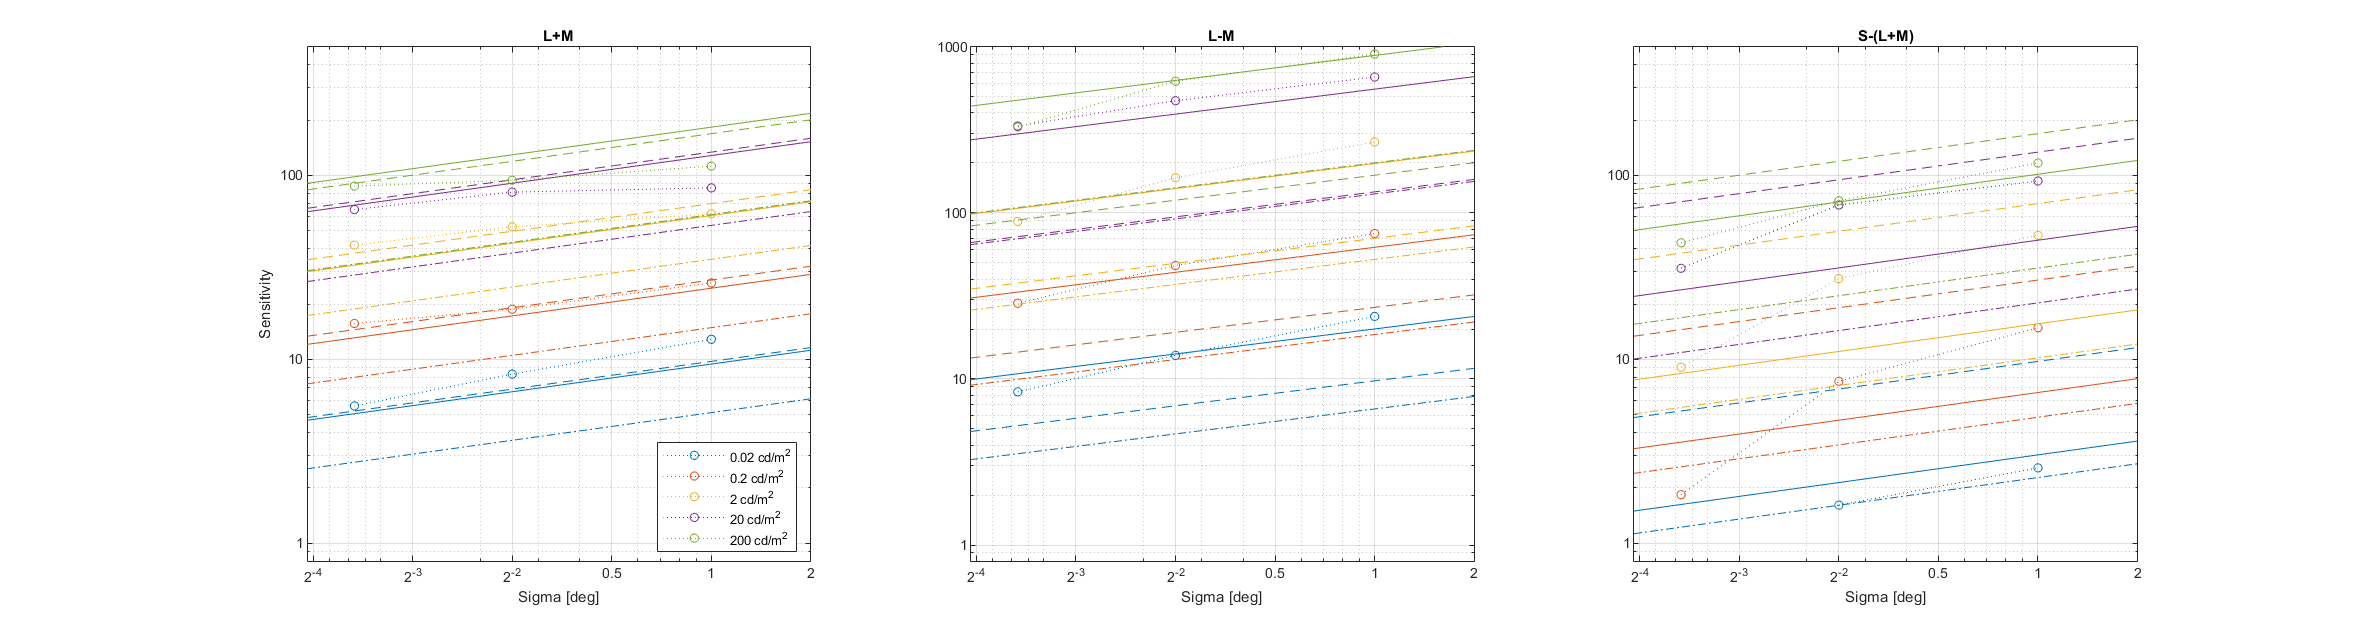
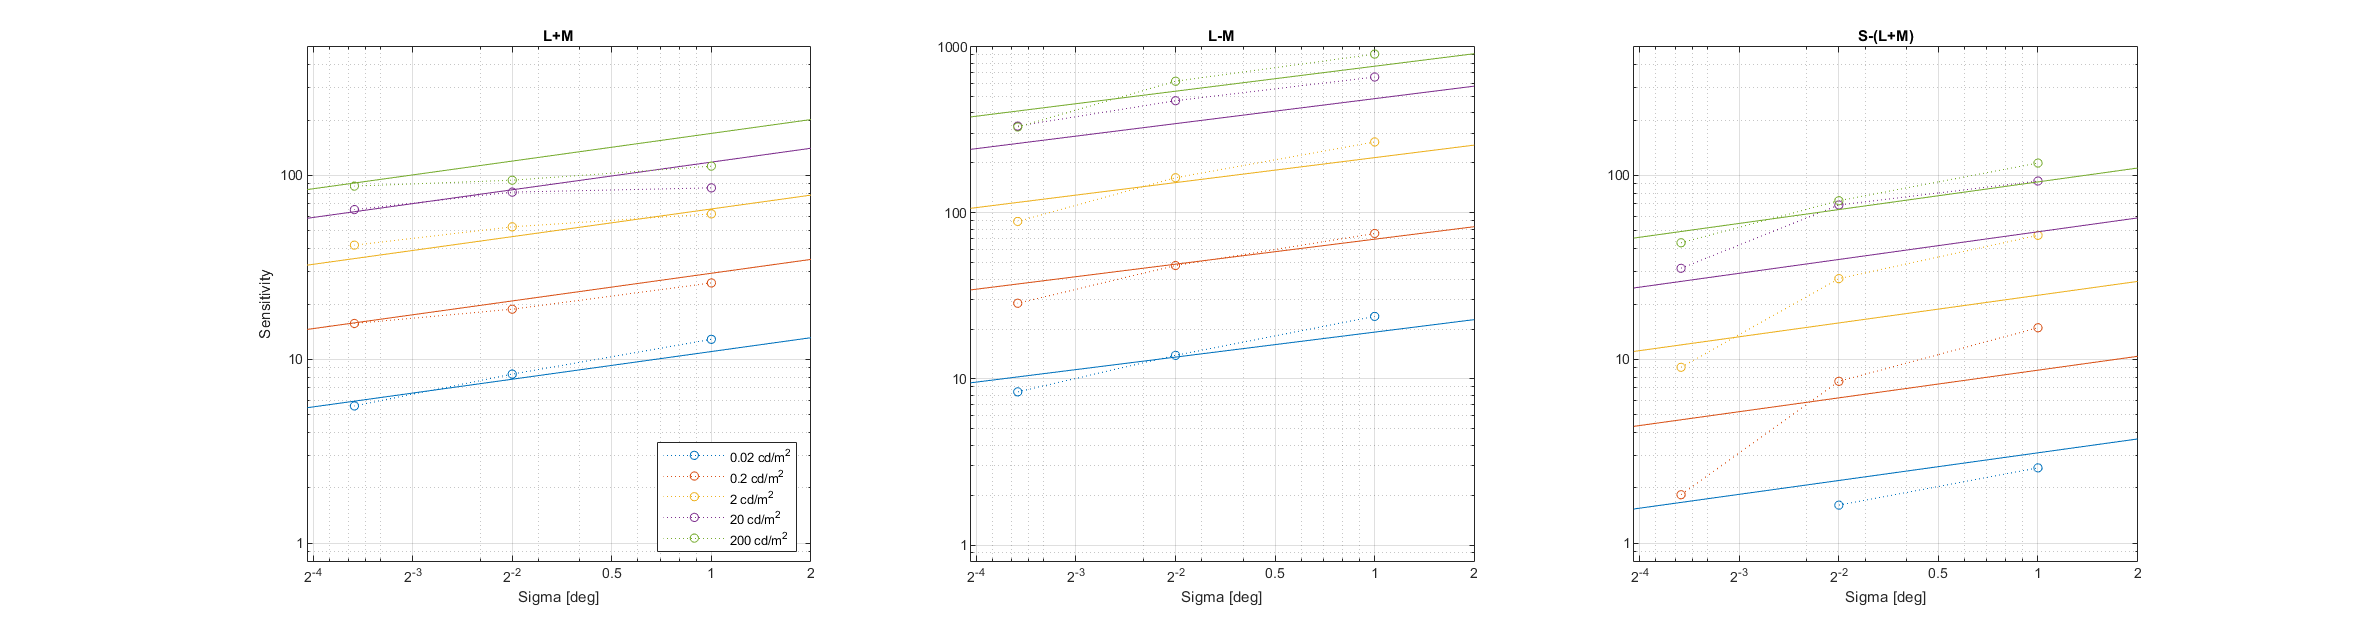
castleCSF share results

diff --git a/share/csf-castle/index.html b/share/csf-castle/index.html
@@ -15,68 +15,56 @@ function detectLeftButton(evt) {
 <h1>Fitting of chromatic Gabor and Disc datasets</h1>
 <h2>Fitting error</h2>
 <TABLE>
-<tr><td rowspan="2">Dataset</td><td colspan="3">Fitting error</td><td colspan="3">Sensitivity adjustment</td></tr><tr><td><a href="#castle-csf-temp">castleCSF-temp</a></td><td><a href="#stela-csf">stelaCSF</a></td><td><a href="#cone-contrast-mat">Cone contrast</a></td><td><a href="#castle-csf-temp">castleCSF-temp</a></td><td><a href="#stela-csf">stelaCSF</a></td><td><a href="#cone-contrast-mat">Cone contrast</a></td></tr><tr><td>Average training</td><td>5.65 [dB]</td><td>7.05 [dB]</td><td>5.87 [dB]</td><td>N/A</td><td>N/A</td><td>N/A</td></tr><tr><td><a href="#modelfest">modelfest</a></td><td>6.02 [dB]</td><td>7.29 [dB]</td><td>5.29 [dB]</td><td>1.000</td><td>1.000</td><td>1.000</td></tr><tr><td><a href="#colorfest">colorfest</a></td><td>3.09 [dB]</td><td>8.30 [dB]</td><td>3.05 [dB]</td><td>0.601</td><td>1.026</td><td>1.542</td></tr><tr><td><a href="#hdrvdp_csf">hdrvdp_csf</a></td><td>5.43 [dB]</td><td>6.04 [dB]</td><td>2.20 [dB]</td><td>0.906</td><td>1.455</td><td>1.779</td></tr><tr><td><a href="#hdr_csf">hdr_csf</a></td><td>3.87 [dB]</td><td>8.10 [dB]</td><td>3.38 [dB]</td><td>0.618</td><td>1.290</td><td>1.681</td></tr><tr><td><a href="#hdr_csf_disc">hdr_csf_disc</a></td><td>4.33 [dB]</td><td>7.95 [dB]</td><td>24.74 [dB]</td><td>0.694</td><td>1.590</td><td>0.883</td></tr><tr><td><a href="#vanderHorst1969_a">vanderHorst1969_a</a></td><td>5.08 [dB]</td><td>3.97 [dB]</td><td>18.61 [dB]</td><td>0.118</td><td>1.000</td><td>0.545</td></tr><tr><td><a href="#vanderHorst1969_b">vanderHorst1969_b</a></td><td>4.87 [dB]</td><td>7.65 [dB]</td><td>4.53 [dB]</td><td>0.207</td><td>0.497</td><td>0.916</td></tr><tr><td><a href="#swanson1986">swanson1986</a></td><td>8.87 [dB]</td><td>6.22 [dB]</td><td>9.57 [dB]</td><td>0.018</td><td>0.330</td><td>0.170</td></tr><tr><td><a href="#kong2018">kong2018</a></td><td>5.16 [dB]</td><td>6.31 [dB]</td><td>7.77 [dB]</td><td>0.482</td><td>1.550</td><td>0.650</td></tr><tr><td><a href="#five_centres">five_centres</a></td><td>6.55 [dB]</td><td>7.10 [dB]</td><td>3.08 [dB]</td><td>0.722</td><td>0.596</td><td>2.082</td></tr></TABLE>
+<tr><td rowspan="2">Dataset</td><td colspan="1">Fitting error</td><td colspan="1">Sensitivity adjustment</td></tr><tr><td><a href="#castle-csf">castleCSF</a></td><td><a href="#castle-csf">castleCSF</a></td></tr><tr><td>Average training</td><td>NaN [dB]</td><td>N/A</td></tr><tr><td><a href="#modelfest">modelfest</a></td><td>2.58 [dB]</td><td>1.000</td></tr><tr><td><a href="#colorfest">colorfest</a></td><td>3.05 [dB]</td><td>1.032</td></tr><tr><td><a href="#hdrvdp_csf">hdrvdp_csf</a></td><td>3.24 [dB]</td><td>1.367</td></tr><tr><td><a href="#hdr_csf">hdr_csf</a></td><td>3.93 [dB]</td><td>1.000</td></tr><tr><td><a href="#hdr_csf_disc">hdr_csf_disc</a></td><td>2.73 [dB]</td><td>1.325</td></tr><tr><td><a href="#anderson1991">anderson1991</a></td><td>NaN [dB]</td><td>1.000</td></tr><tr><td><a href="#virsu1979">virsu1979</a></td><td>4.87 [dB]</td><td>1.598</td></tr><tr><td><a href="#virsu1982">virsu1982</a></td><td>6.27 [dB]</td><td>0.588</td></tr><tr><td><a href="#robson1966">robson1966</a></td><td>8.56 [dB]</td><td>0.687</td></tr><tr><td><a href="#rovamo1993">rovamo1993</a></td><td>3.53 [dB]</td><td>1.868</td></tr><tr><td><a href="#vanderHorst1969_a">vanderHorst1969_a</a></td><td>5.78 [dB]</td><td>0.626</td></tr><tr><td><a href="#vanderHorst1969_b">vanderHorst1969_b</a></td><td>4.43 [dB]</td><td>0.458</td></tr></TABLE>
 <h2>Model parameters</h2>
 <div class="params_frame">
-<div align="center">castleCSF-temp</div>
+<div align="center">castleCSF</div>
 <div style="white-space: pre-line;">
-</div>
-</div>
-<div class="params_frame">
-<div align="center">stelaCSF</div>
-<div style="white-space: pre-line;">
-	p.ach_sust.S_max = [ 2200.11 9.53934 0.405355 7.54866e-07 1.85526e+28 ];
-	p.ach_sust.f_max = [ 0.0181456 4.67284e+39 0.0412733 ];
-	p.ach_sust.bw = 2.80135;
-	p.ach_sust.a = 4.88677e-48;
-	p.ach_trans.S_max = [ 0.303473 4.68988e+06 ];
-	p.ach_trans.f_max = 1.43956e-15;
-	p.ach_trans.bw = 5.22064;
-	p.ach_trans.a = 0.000273289;
-	p.sigma_trans = 0.149301;
-	p.sigma_sust = 7.18137;
-	p.ecc_drop = 0.0296662;
-	p.ecc_drop_nasal = 0.0113638;
-	p.ecc_drop_f = 0.0190062;
-	p.ecc_drop_f_nasal = 0.0193858;
-</div>
-</div>
-<div class="params_frame">
-<div align="center">Cone contrast</div>
-<div style="white-space: pre-line;">
-	p.cm(1).S_max = [ 431751 1.96712 0.341896 701879 9.43842e-05 ];
-	p.cm(1).f_max = [ 1.21764 542.211 0.197265 ];
-	p.cm(1).bw = 1.31965;
-	p.cm(1).gamma = 0.843053;
-	p.cm(1).Ac_prime = 157.393;
-	p.cm(2).S_max = [ 64125.4 39.0681 0.477706 ];
-	p.cm(2).f_max = 1.97e-06;
-	p.cm(2).bw = 4.81435;
-	p.cm(2).gamma = 1.12525;
-	p.cm(2).Ac_prime = 27.3797;
-	p.cm(3).S_max = [ 4866.89 91.2555 0.326656 ];
-	p.cm(3).f_max = 4.59816e-08;
-	p.cm(3).bw = 5.59;
-	p.cm(3).gamma = 1.52782;
-	p.cm(3).Ac_prime = 1.02435;
-	p.colmat = [ 0.00126073 0.431221 1.0107 1.91063 6.4188e-07 0.000164388 ];
+	p.sust(1).S_max = [ 151.552 121187 0.0924618 0.000384336 3.8667e+06 ];
+	p.sust(1).f_max = [ 2.57121 466.859 0.398087 ];
+	p.sust(1).bw = 1.21262;
+	p.sust(1).A0 = 37309.8;
+	p.sust(1).f0 = 0.0175218;
+	p.sust(2).S_max = [ 7943.82 10331.3 0.592451 ];
+	p.sust(2).f_max = 1.21306;
+	p.sust(2).bw = 2.04656e-111;
+	p.sust(2).A0 = 62.6841;
+	p.sust(2).f0 = 0.360679;
+	p.sust(3).S_max = [ 7840.07 41825.6 0.486157 ];
+	p.sust(3).f_max = 1.2913;
+	p.sust(3).bw = 0;
+	p.sust(3).A0 = 2.99943;
+	p.sust(3).f0 = 0.127993;
+	p.trans(1).S_max = [ 1.00051e-223 133.807 ];
+	p.trans(1).f_max = 0.737512;
+	p.trans(1).bw = 3.39404e-24;
+	p.trans(1).A0 = 2522.98;
+	p.trans(1).f0 = 0.326374;
+	p.trans(2).S_max = [ 0.0397173 83.7346 ];
+	p.trans(2).f_max = 0.279928;
+	p.trans(2).bw = 0.660327;
+	p.trans(2).A0 = 3.5313e+18;
+	p.trans(2).f0 = 2.9904e+28;
+	p.trans(3).S_max = [ 0.101422 14.1032 ];
+	p.trans(3).f_max = 0.862238;
+	p.trans(3).bw = 0;
+	p.trans(3).A0 = 8.81386e+22;
+	p.trans(3).f0 = 1.86456e+56;
+	p.sigma_sust = [ Inf 7.77542e+56 Inf ];
+	p.sigma_trans = [ 3.19639 2.04153 Inf ];
 
 M_lms2acc =
 
-    1.0000    0.4312    0.0000
-    1.0000   -1.0107    0.0002
-   -0.0013   -1.9106    1.0000
+    1.0000    0.2298    0.0000
+    1.0000   -0.9326    0.0037
+   -0.0012   -1.0701    1.0000
 
 </div>
 </div>
-<h2 id="castle-csf-temp"><a class="top_align_button" href="#castle-csf-temp">&#8632;</a>CSF model: castleCSF-temp</h2>
-<img src="fig_csf_contour_castleCSF-temp.png"/>
-<br/>
-<h2 id="stela-csf"><a class="top_align_button" href="#stela-csf">&#8632;</a>CSF model: stelaCSF</h2>
-<img src="fig_csf_contour_stelaCSF.png"/>
-<br/>
-<h2 id="cone-contrast-mat"><a class="top_align_button" href="#cone-contrast-mat">&#8632;</a>CSF model: Cone contrast</h2>
-<img src="fig_csf_contour_Cone contrast.png"/>
+<h2 id="castle-csf"><a class="top_align_button" href="#castle-csf">&#8632;</a>CSF model: castleCSF</h2>
+<img src="fig_csf_contour_castleCSF_1.png"/>
+<img src="fig_csf_contour_castleCSF_2.png"/>
+<img src="fig_csf_contour_castleCSF_3.png"/>
 <br/>
 <h2>Legend</h2>
 <p>To keep the plots legible, only up to 3 models are plotted.</p>
@@ -107,6 +95,32 @@ M_lms2acc =
 <div>CSF as the function of size at different luminance levels<br/>
 <img src="fig_hdr_csf_disc_1.png"/>
 <br/></div>
+<h2 id="anderson1991"><a class="top_align_button" href="#anderson1991">&#8632;</a>Dataset: [anderson1991] Anderson et al. 1991</h2>
+<div>Contrast sensitivity as the function of retinal visual field (at 8 Hz)<br/>
+<img src="fig_anderson1991_1.png"/>
+<br/></div>
+<h2 id="virsu1979"><a class="top_align_button" href="#virsu1979">&#8632;</a>Dataset: [virsu1979] Virsu & Rovamo 1979</h2>
+<div>Contrast sensitivity of central and peripheral vision as a function of spatial frequency and eccentricity<br/>
+<img src="fig_virsu1979_1.png"/>
+<br/></div>
+<h2 id="virsu1982"><a class="top_align_button" href="#virsu1982">&#8632;</a>Dataset: [virsu1982] Virsu et al. 1982</h2>
+<div>Contrast sensitivity as the function of frequency<br/>
+<img src="fig_virsu1982_1.png"/>
+<br/></div>
+<div>Contrast sensitivity as the function of eccentricity<br/>
+<img src="fig_virsu1982_2.png"/>
+<br/></div>
+<h2 id="robson1966"><a class="top_align_button" href="#robson1966">&#8632;</a>Dataset: [robson1966] Robson 1966</h2>
+<div>Spatial CSF for different temporal frequencies<br/>
+<img src="fig_robson1966_1.png"/>
+<br/></div>
+<div>Temporal CSF for different spatial frequencies<br/>
+<img src="fig_robson1966_2.png"/>
+<br/></div>
+<h2 id="rovamo1993"><a class="top_align_button" href="#rovamo1993">&#8632;</a>Dataset: [rovamo1993] Rovamo et al. 1993</h2>
+<div>CSF as the funcation of stimulus area<br/>
+<img src="fig_rovamo1993_1.png"/>
+<br/></div>
 <h2 id="vanderHorst1969_a"><a class="top_align_button" href="#vanderHorst1969_a">&#8632;</a>Dataset: [vanderHorst1969_a] Van der Horst & Gerard 1969</h2>
 <div>Chromatic contrast thresholds of rectangular flickering stimuli as a function of temporal frequency<br/>
 <img src="fig_vanderHorst1969_a_1.png"/>
@@ -132,27 +146,6 @@ M_lms2acc =
 <br/></div>
 <div>Chromatic contrast thresholds for travelling sine waves as function of temporal frequency<br/>
 <img src="fig_vanderHorst1969_b_6.png"/>
-<br/></div>
-<h2 id="swanson1986"><a class="top_align_button" href="#swanson1986">&#8632;</a>Dataset: [swanson1986] Swanson et al. 1986</h2>
-<div>Temporal contrast sensitivity of flickering disc stimuli for different luminances<br/>
-<img src="fig_swanson1986_1.png"/>
-<br/></div>
-<div>Temporal achromatic contrast sensitivity of flickering disc stimuli for different sizes<br/>
-<img src="fig_swanson1986_2.png"/>
-<br/></div>
-<div>Temporal chromatic contrast sensitivity of flickering disc stimuli for different sizes<br/>
-<img src="fig_swanson1986_3.png"/>
-<br/></div>
-<h2 id="kong2018"><a class="top_align_button" href="#kong2018">&#8632;</a>Dataset: [kong2018] Kong et al. 2018</h2>
-<div>Chromatic CSF as a function of temporal frequency (9 background colors and 4 color directions in uv space<br/>
-<img src="fig_kong2018_1.png"/>
-<br/></div>
-<h2 id="five_centres"><a class="top_align_button" href="#five_centres">&#8632;</a>Dataset: [five_centres] Five centres [Xu et al. 2020]</h2>
-<div>Chromatic CSF as ellipses<br/>
-<img src="fig_five_centres_1.png"/>
-<br/></div>
-<div>Chromatic CSF as a function of frequency<br/>
-<img src="fig_five_centres_2.png"/>
 <br/></div>
 </body>
 </html>
